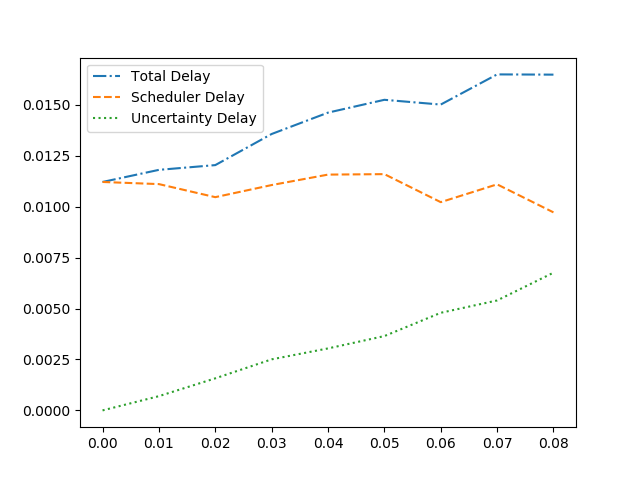
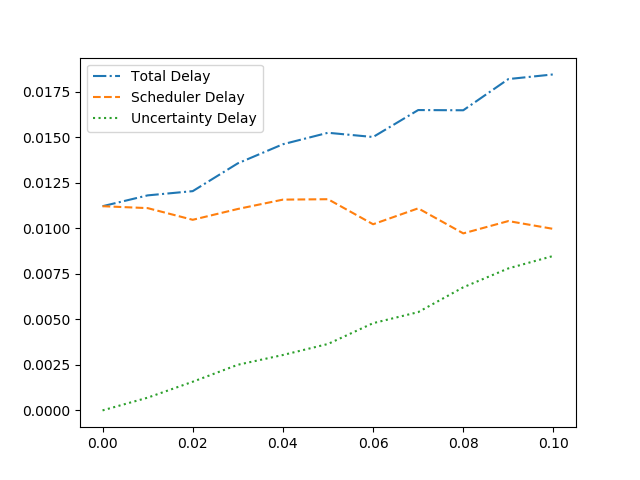
Updates tools and plots for doc

diff --git a/utils/plot_for_paper.py b/utils/plot_for_paper.py
@@ -2,13 +2,15 @@
 import pylab
 import pandas as pd
 
-CSV_FILE = "../batch_output/sfo-terminal-2-uc-xxl-partial/metrics.csv"
-# INDEX = "simulation.reschedule_cycle"
-INDEX = "uncertainty.prob_hold"
+ROOT_DIR = "../batch_output/sfo-terminal-2-rt-xxl/"
+METRICS_CSV = ROOT_DIR + "metrics.csv"
+FAILED_CSV = ROOT_DIR + "logs.csv"
+INDEX = "simulation.reschedule_cycle"
+# INDEX = "uncertainty.prob_hold"
 
 def main():
 
-    data = pd.read_csv(CSV_FILE).set_index(INDEX)
+    data = pd.read_csv(METRICS_CSV).set_index(INDEX)
 
     # Plot delay
     pylab.plot(data["avg_n_delay"], '-.', label="Total Delay")
@@ -30,6 +32,15 @@ def main():
                label="Schedule Execution Time")
     pylab.legend()
     pylab.savefig("schedule_exec_time.png")
+    pylab.clf()
+
+    # Plot failure
+    failed = pd.read_csv(FAILED_CSV)[["expr_var", "failed"]]
+    failed_mean_count = failed.groupby("expr_var").agg(["mean", "count"])
+    pylab.plot(failed_mean_count["failed"]["mean"], "-", label="Average early "
+               + "termination runs\nbefore one successful simulation")
+    pylab.legend()
+    pylab.savefig("failure.png")
     pylab.clf()
 
 
